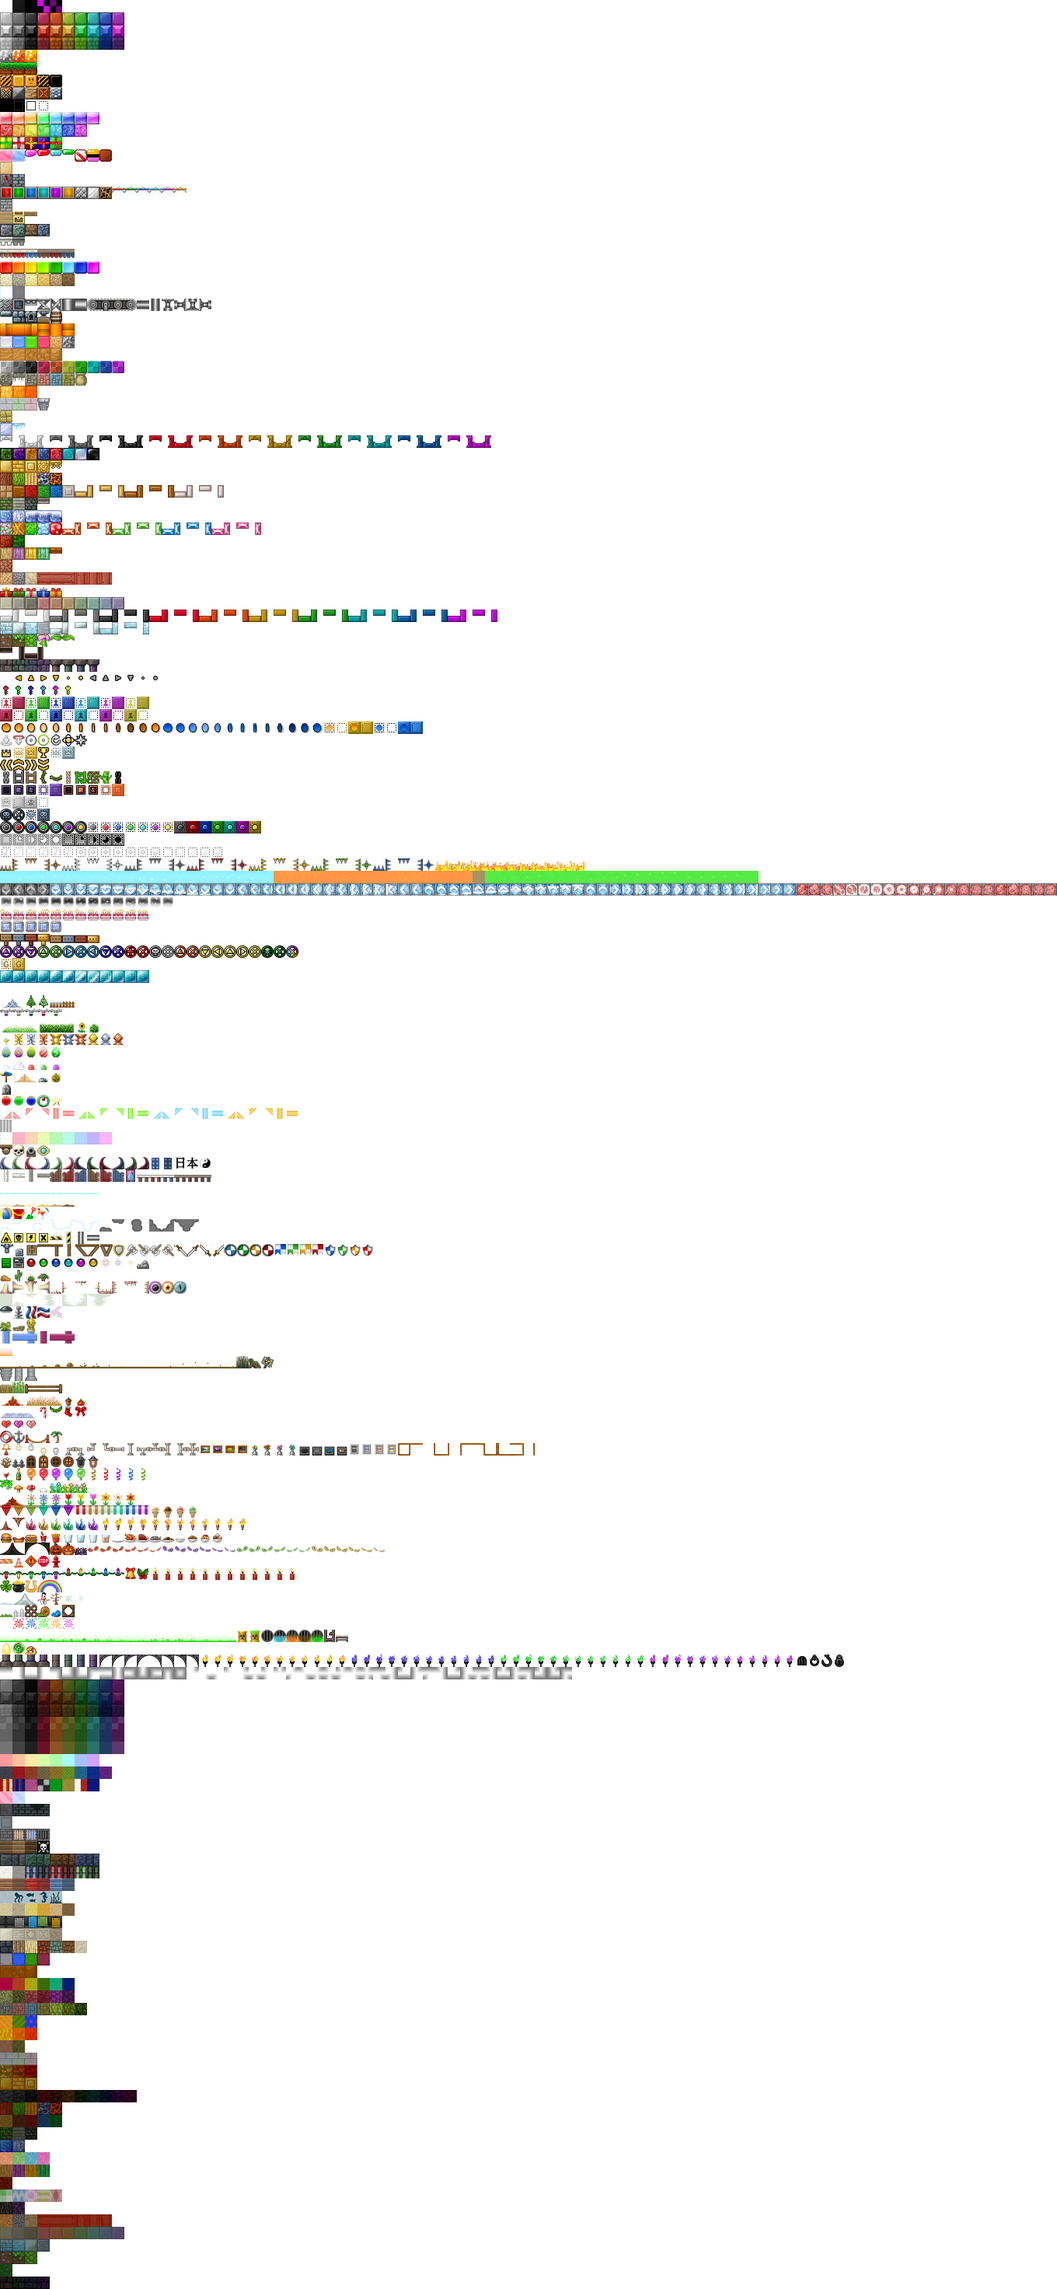
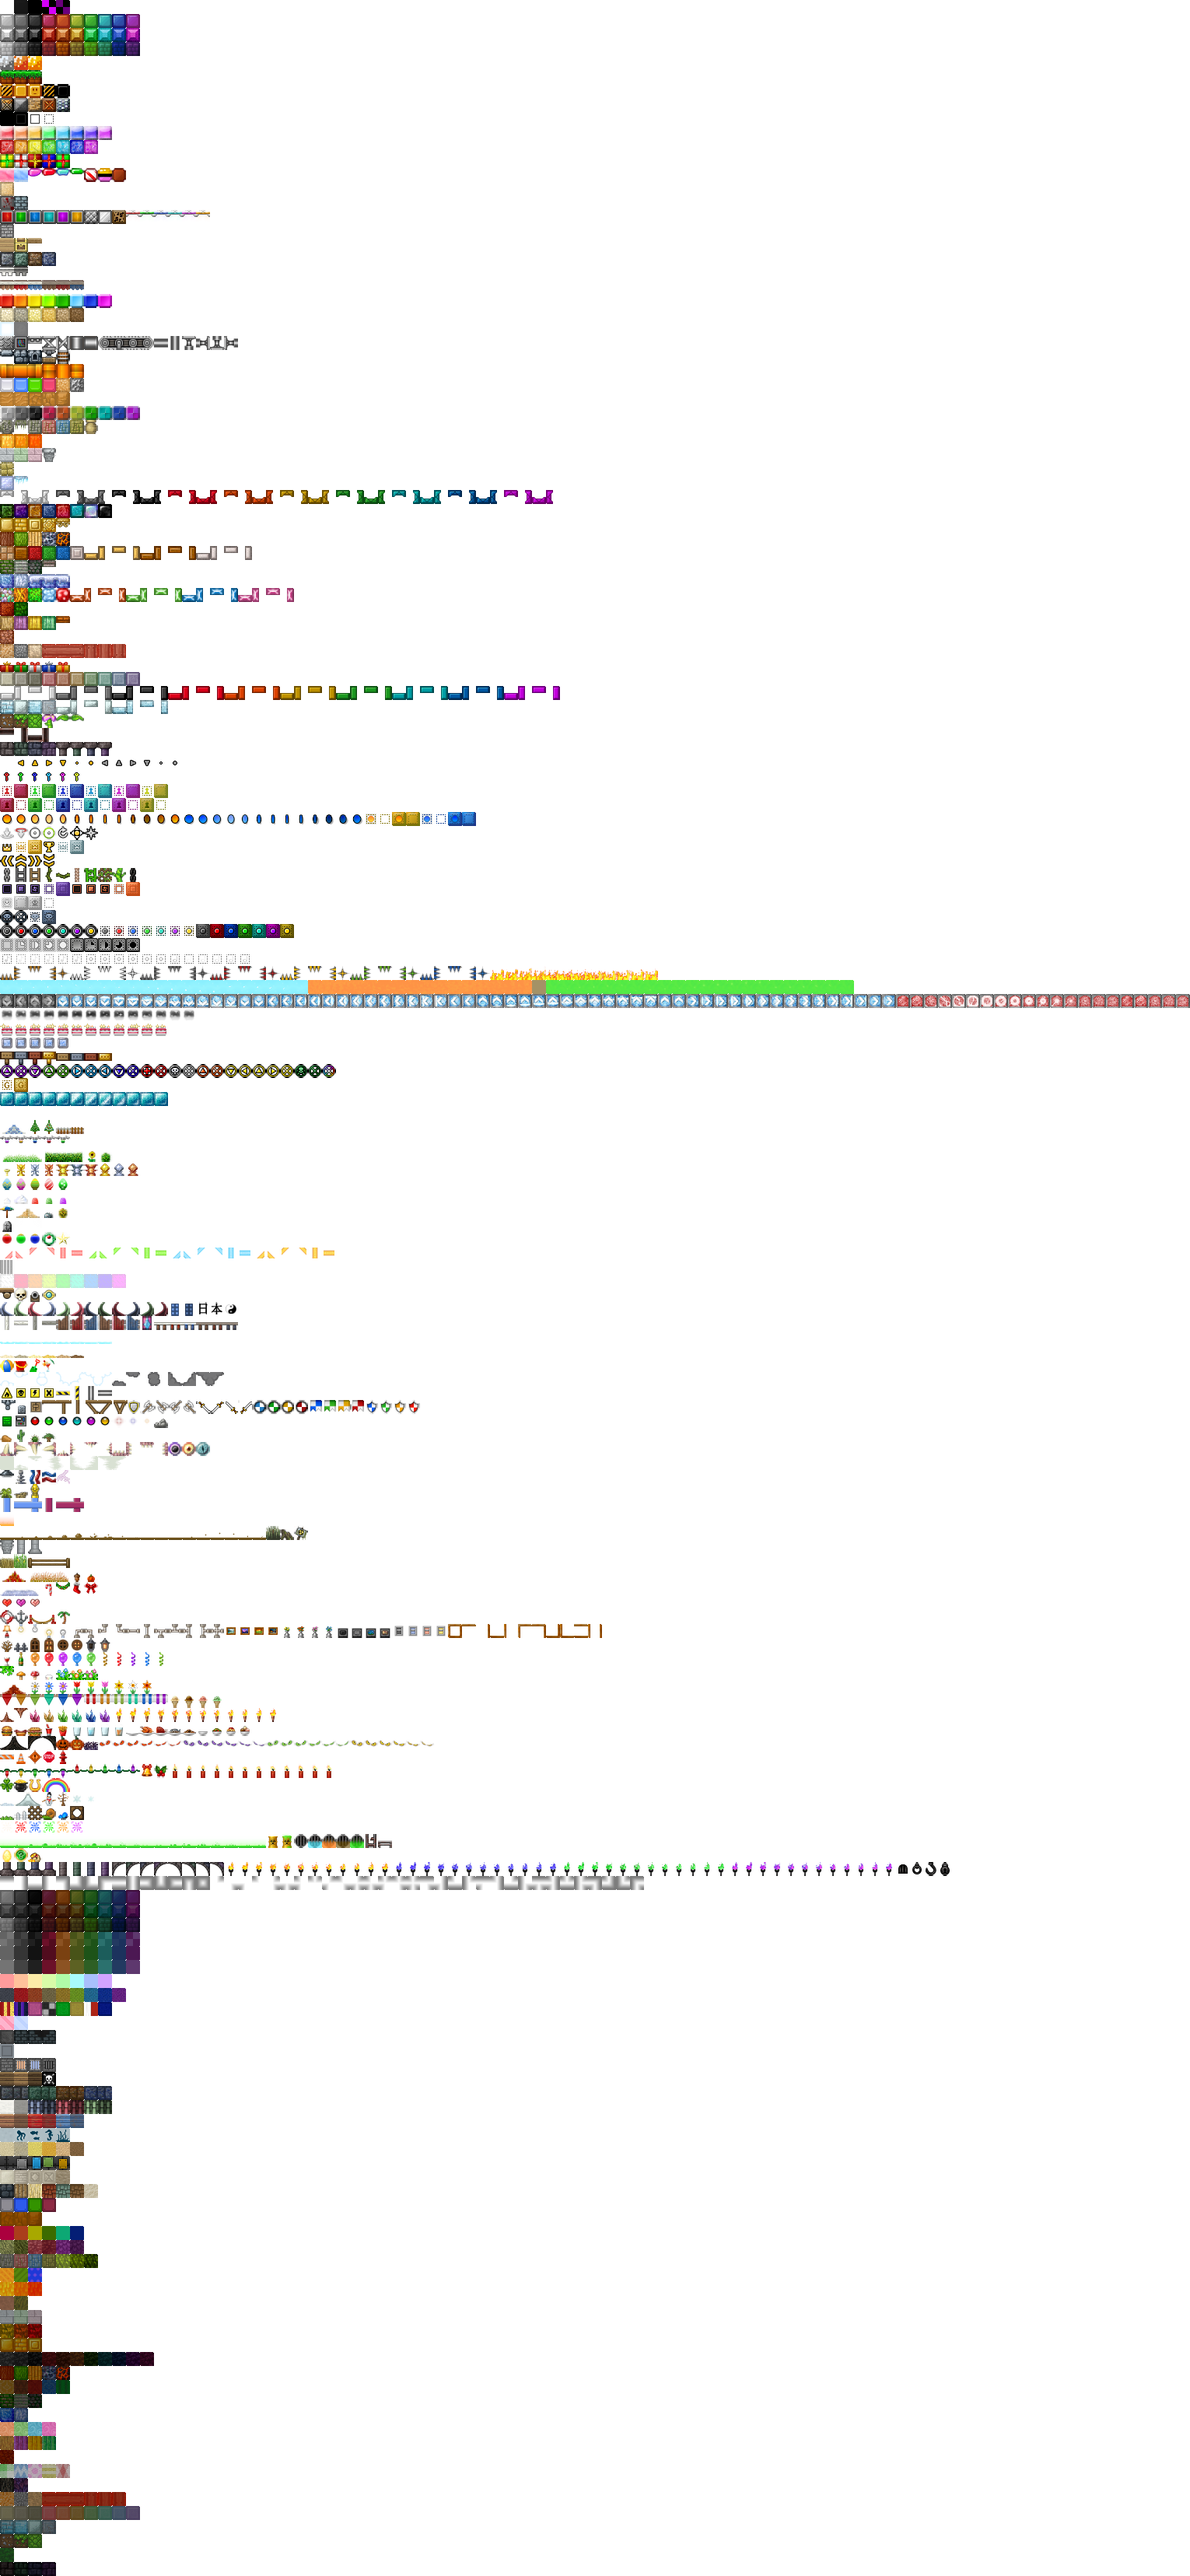
"Fixed" texture bleeding

diff --git a/dist/items/ItemBlock.js b/dist/items/ItemBlock.js
@@ -57,8 +57,10 @@ class ItemBlock {
   }
 
   generateFrame(artOffset, yOffset) {
-    return new Rectangle(artOffset*Config.blockSize, yOffset*Config.blockSize,
-    Config.blockSize, Config.blockSize)
+    return new Rectangle(
+      artOffset*(Config.blockSize + 2*Config.blockPadding) + Config.blockPadding,
+      yOffset*(Config.blockSize + 2*Config.blockPadding) + Config.blockPadding,
+      Config.blockSize, Config.blockSize)
   }
 
   get frame() {

diff --git a/dist/Config.js b/dist/Config.js
@@ -2,6 +2,7 @@ class Config {
   static blockSize = 16;
   static smileySize = 26;
   static godmodeSize = 64;
+  static blockPadding = 1;
 
   static fontVisitorSize = 8;
   static fontNokiaSize = 13;
